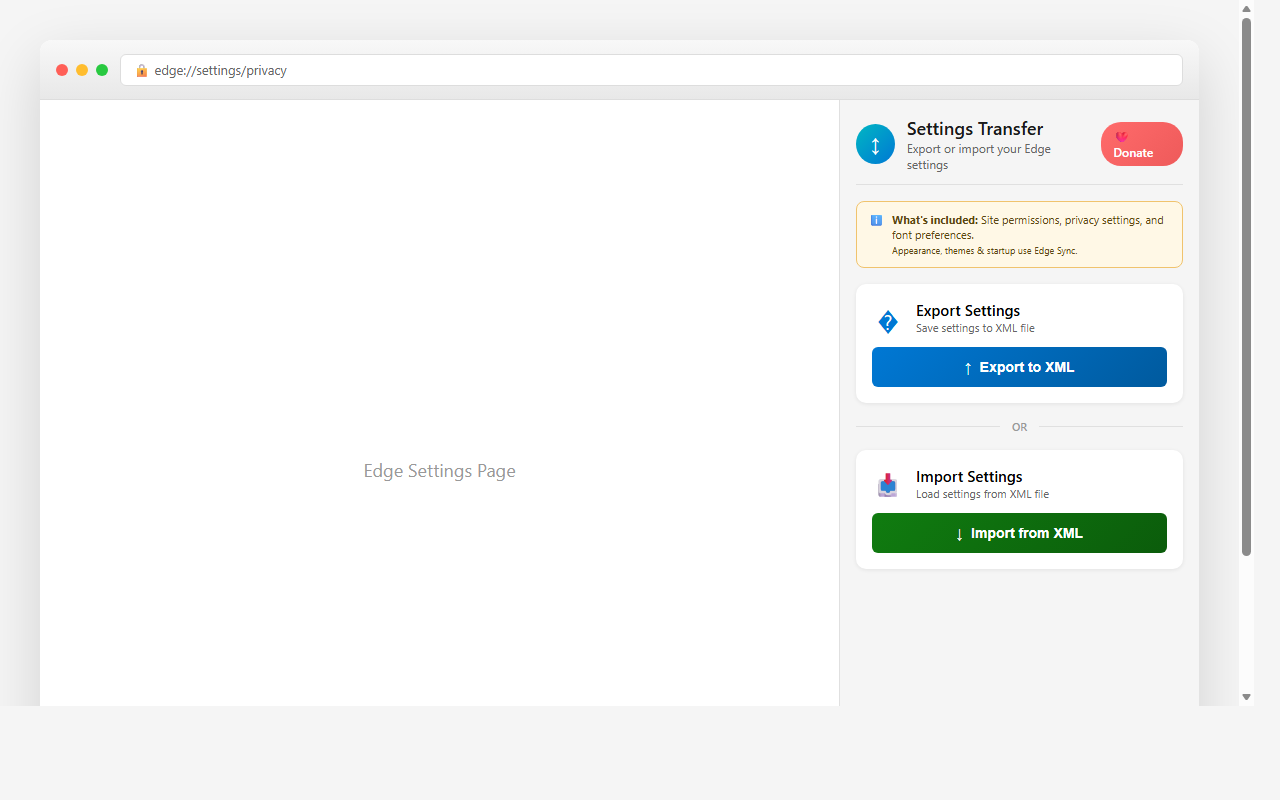
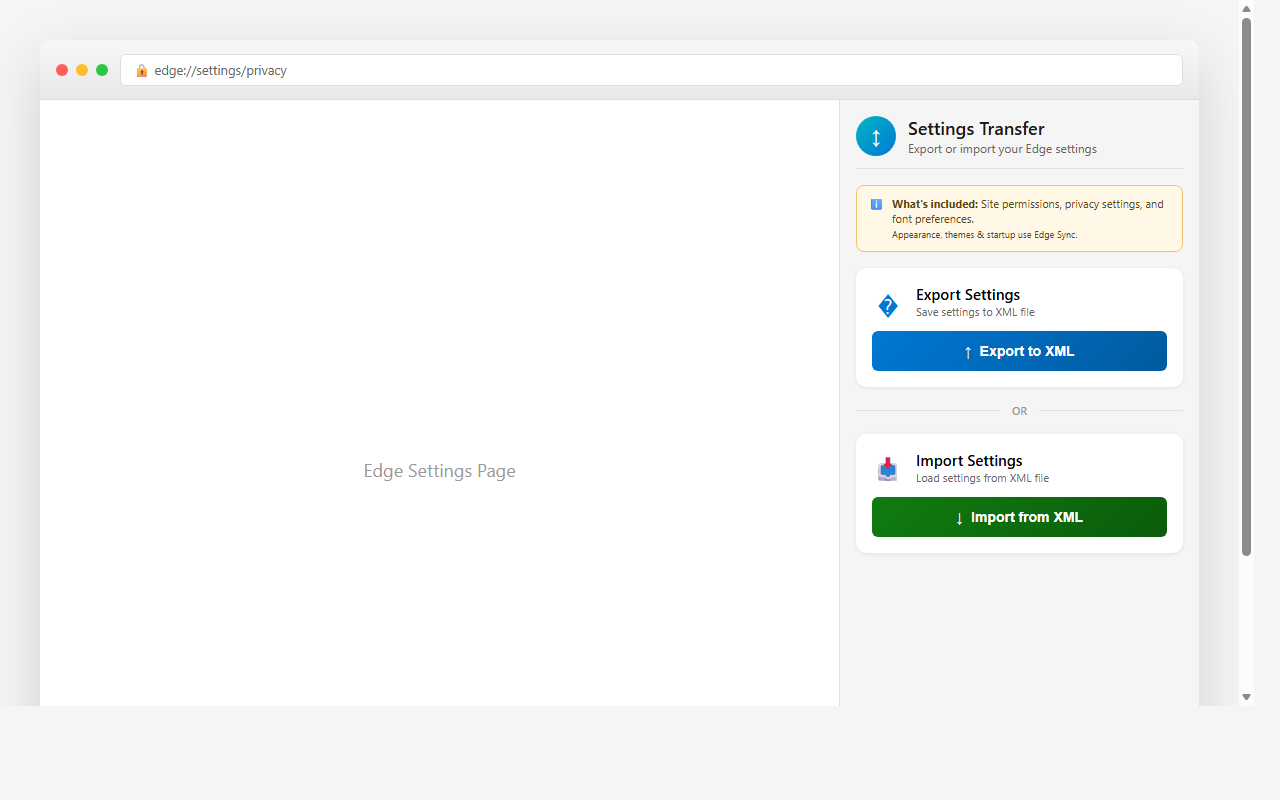
Move donate heart to footer as ❤ Zozimus Technologies branding

Changed region(s): [[0.6562, 0.25, 0.9375, 0.5312], [0.6562, 0.5625, 0.9375, 0.7188], [0.6562, 0.125, 0.9375, 0.2188]]

diff --git a/edge-settings-extension/sidepanel.html b/edge-settings-extension/sidepanel.html
@@ -18,10 +18,6 @@
         <h1>Settings Transfer</h1>
         <p class="subtitle">Export or import your Edge settings</p>
       </div>
-      <a href="https://wise.com/pay/r/wC7Us-4r3knkCCY" target="_blank" class="donate-btn" title="Support this extension">
-        <span class="donate-icon">❤</span>
-        <span class="donate-text">Donate</span>
-      </a>
     </header>
 
     <!-- Info Banner -->
@@ -148,7 +144,7 @@
     <footer>
       <p>Edge Settings Transfer v1.4</p>
       <a href="#" id="showDetailsLink">What can be exported?</a>
-      <p class="copyright-text">© <a href="https://github.com/zozimustechnologies" target="_blank">Zozimus Technologies</a></p>
+      <p class="copyright-text"><a href="https://github.com/zozimustechnologies" target="_blank">❤ Zozimus Technologies</a></p>
     </footer>
 
     <!-- Details Modal -->

diff --git a/edge-settings-extension/store-assets/screenshot-1-main-panel.html b/edge-settings-extension/store-assets/screenshot-1-main-panel.html
@@ -243,7 +243,6 @@
             <h1>Settings Transfer</h1>
             <p>Export or import your Edge settings</p>
           </div>
-          <a href="#" class="donate-btn">❤ Donate</a>
         </div>
         
         <div class="info-banner">
@@ -285,7 +284,7 @@
         <div class="panel-footer">
           <p>Edge Settings Transfer v1.6</p>
           <a href="#">What can be exported?</a>
-          <p style="margin-top:6px;font-size:10px;color:#999;">© <a href="https://github.com/zozimustechnologies" style="color:#0078D4;text-decoration:none;">Zozimus Technologies</a></p>
+          <p style="margin-top:6px;font-size:10px;color:#999;"><a href="https://github.com/zozimustechnologies" style="color:#0078D4;text-decoration:none;">❤ Zozimus Technologies</a></p>
         </div>
       </div>
     </div>

diff --git a/edge-settings-extension/popup.html b/edge-settings-extension/popup.html
@@ -141,7 +141,7 @@
   </div>
 
   <footer class="copyright-footer">
-    <span>© <a href="https://github.com/zozimustechnologies" target="_blank">Zozimus Technologies</a></span>
+    <span><a href="https://github.com/zozimustechnologies" target="_blank">❤ Zozimus Technologies</a></span>
   </footer>
 
   <script src="popup.js"></script>
